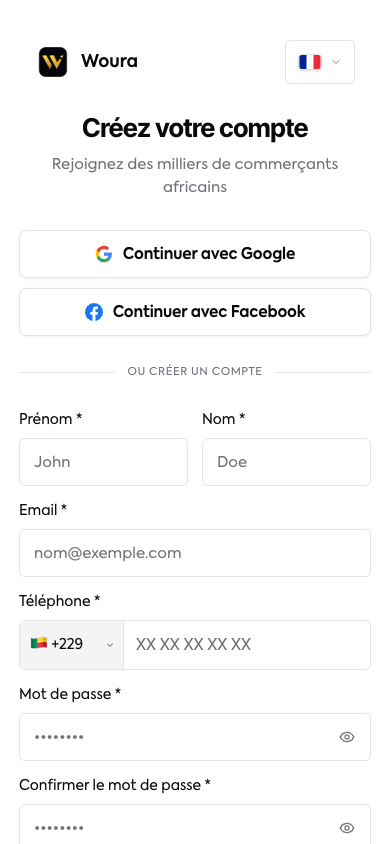
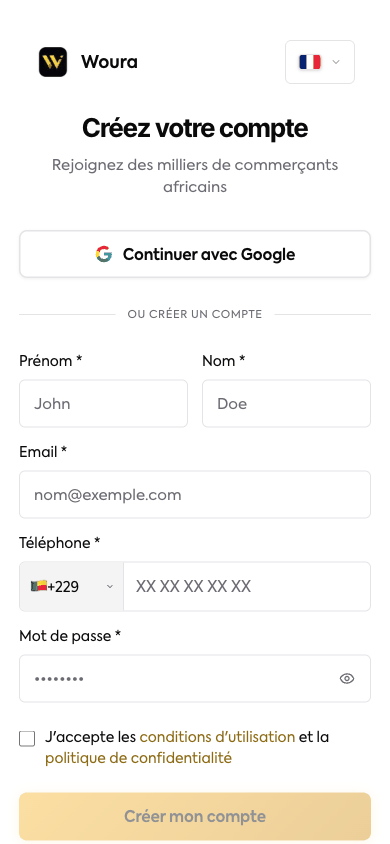
Inscription et connexion : retirer le bouton Facebook de la doc
Le bouton est masqué dans l'application tant que Meta n'a pas approuvé l'e-mail
sur l'application de connexion. Texte, descriptions d'images et trois captures
refaites à 1440×900 et 390×844 : seul Google est proposé.

diff --git a/_inventaire.md b/_inventaire.md
@@ -10,7 +10,7 @@
 |---|---|---|---|
 | `/` | « Vends. Encaisse. Livre. Et sache enfin ce que tu gagnes. », « Commencer gratuitement », « Voir les tarifs », « Essai Gratuit » | Les deux CTA mènent à la connexion, pas à l'inscription. | oui (bref, dans Bienvenue) |
 | `/pricing` | « Un abonnement clair. Des crédits pour le reste. » | Seule source publiable des prix. | oui (renvoi, prix vérifiés à l'écran) |
-| `/auth/register` | « Créez votre compte » ; « Continuer avec Google » / « Continuer avec Facebook » ; Prénom, Nom, Email, Téléphone, Mot de passe, Confirmer ; « Créer mon compte » | Mot de passe : 8 caractères, majuscule, minuscule, chiffre, caractère spécial. | oui |
+| `/auth/register` | « Créez votre compte » ; « Continuer avec Google » (Facebook masqué depuis le 30/10/2026, en attente de l'App Review de Meta) ; Prénom, Nom, Email, Téléphone, Mot de passe, Confirmer ; « Créer mon compte » | Mot de passe : 8 caractères, majuscule, minuscule, chiffre, caractère spécial. | oui |
 | `/auth/verify` | « Vérification du compte » — « Saisissez le code à 4 chiffres envoyé par email » ; « Vérifier », « Renvoyer le code » | Code à 4 chiffres par e-mail. | oui |
 | `/auth/login` | « Bienvenue ! » ; « Se souvenir de moi », « Mot de passe oublié ? », « Se connecter » | — | oui |
 | `/auth/forgot-password` | « Mot de passe oublié ? » ; « Envoyer le code de réinitialisation » | Le code arrive par e-mail, puis « Nouveau mot de passe ». | oui |
